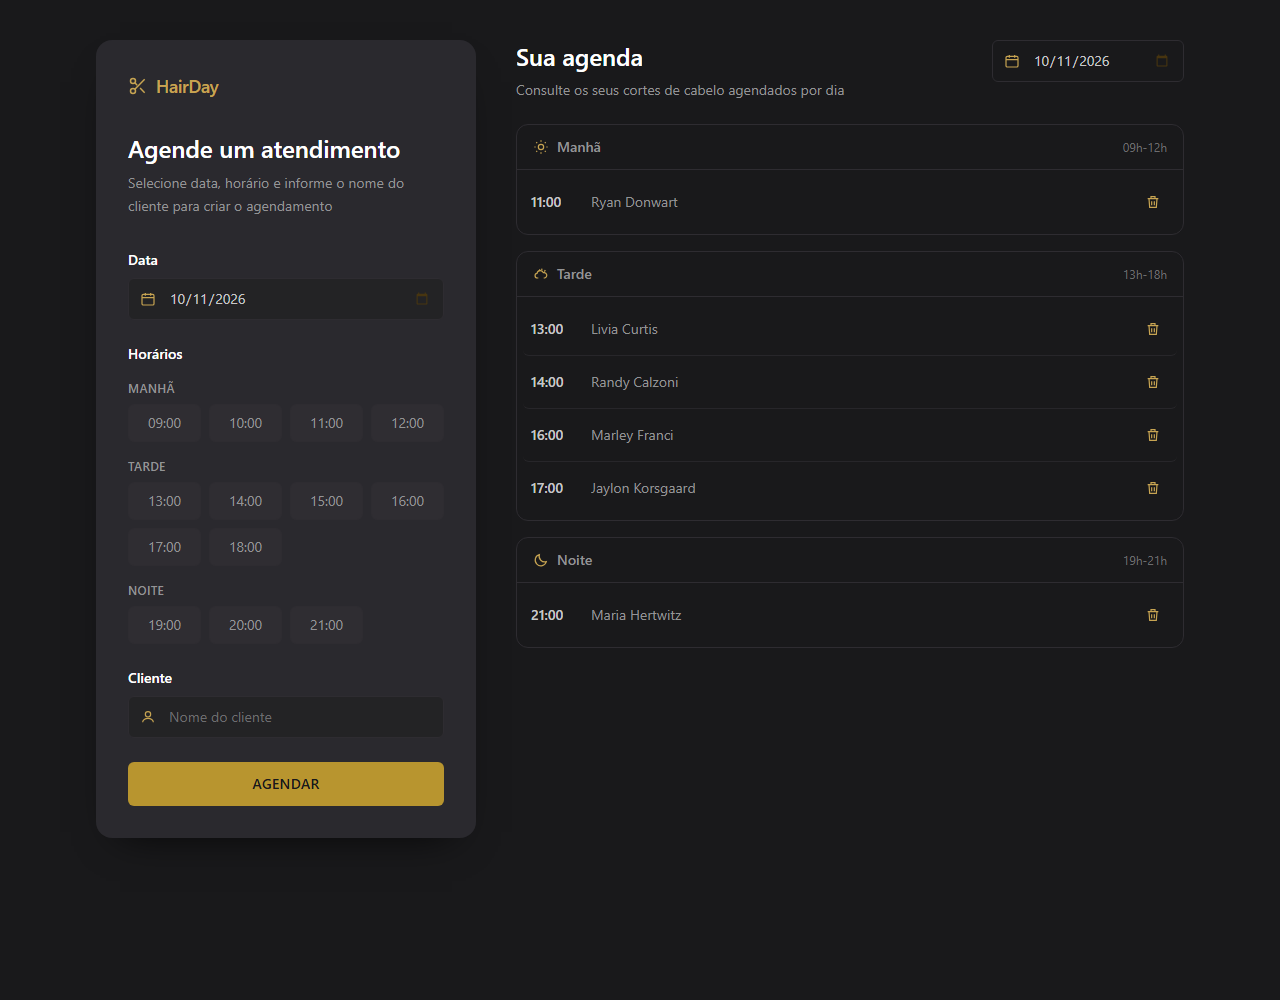
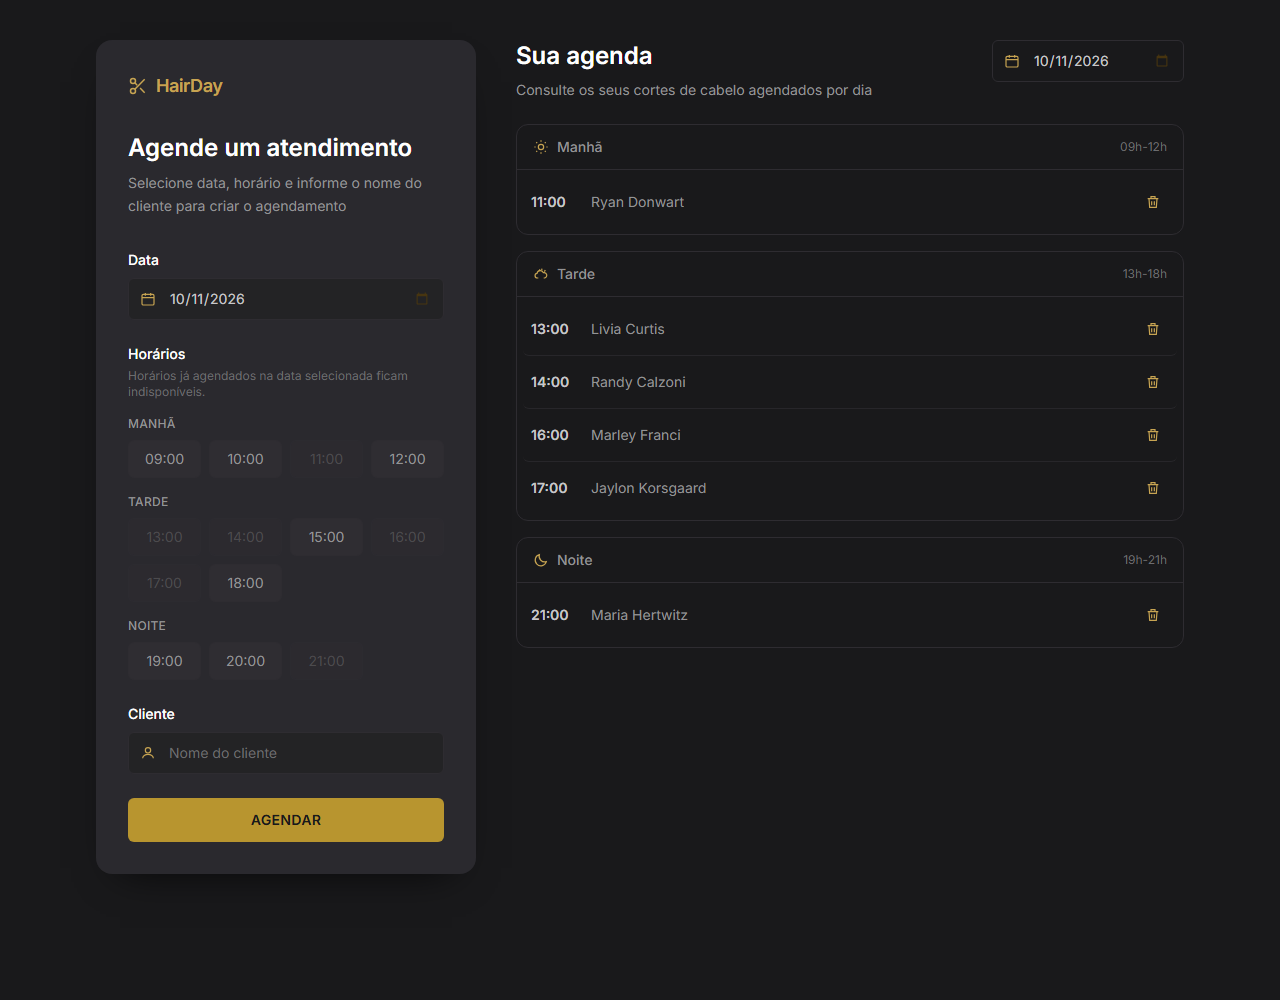
feat: disable booked time slots and add Inter font

diff --git a/src/components/AppointmentForm/AppointmentForm.tsx b/src/components/AppointmentForm/AppointmentForm.tsx
@@ -16,12 +16,31 @@ type AppointmentFormProps = {
  * A lista de agendamentos NÃO fica aqui: ela vive no Context API.
  */
 export function AppointmentForm({ onAppointmentCreated }: AppointmentFormProps) {
-  const { addAppointment } = useAppointments()
+  const { appointments, addAppointment } = useAppointments()
 
   const [date, setDate] = useState(todayISO())
   const [selectedTime, setSelectedTime] = useState('')
   const [clientName, setClientName] = useState('')
   const [error, setError] = useState('')
+
+  /**
+   * Descobre se um horário já está ocupado na data informada.
+   * É o que faz o chip aparecer apagado, como no protótipo do Figma.
+   */
+  function isTimeBooked(targetDate: string, time: string) {
+    return appointments.some(
+      (appointment) => appointment.date === targetDate && appointment.time === time,
+    )
+  }
+
+  function handleDateChange(nextDate: string) {
+    setDate(nextDate)
+
+    // Se o horário escolhido já estiver ocupado na nova data, limpamos a seleção.
+    if (selectedTime && isTimeBooked(nextDate, selectedTime)) {
+      setSelectedTime('')
+    }
+  }
 
   function handleSubmit(event: FormEvent<HTMLFormElement>) {
     // Impede o recarregamento da página ao enviar o formulário.
@@ -36,6 +55,12 @@ export function AppointmentForm({ onAppointmentCreated }: AppointmentFormProps) 
 
     if (missing.length > 0) {
       setError(`Preencha ${missing.join(', ')} para criar o agendamento.`)
+      return
+    }
+
+    // Trava extra: mesmo que o chip esteja marcado, o horário ocupado não entra.
+    if (isTimeBooked(date, selectedTime)) {
+      setError('Este horário já está agendado. Escolha outro horário.')
       return
     }
 
@@ -62,7 +87,7 @@ export function AppointmentForm({ onAppointmentCreated }: AppointmentFormProps) 
             id="appointment-date"
             type="date"
             value={date}
-            onChange={(event) => setDate(event.target.value)}
+            onChange={(event) => handleDateChange(event.target.value)}
             className="w-full rounded-md border border-line bg-surface-inset py-2.5 pl-10 pr-3 text-sm text-content transition-colors focus-visible:border-accent focus-visible:outline-2 focus-visible:outline-offset-2 focus-visible:outline-accent"
           />
         </div>
@@ -70,6 +95,9 @@ export function AppointmentForm({ onAppointmentCreated }: AppointmentFormProps) 
 
       <fieldset>
         <legend className="text-sm font-medium text-content-strong">Horários</legend>
+        <p className="mt-1 text-xs text-content-subtle">
+          Horários já agendados na data selecionada ficam indisponíveis.
+        </p>
 
         {PERIODS.map((period) => (
           <div key={period.id} className="mt-4">
@@ -78,6 +106,7 @@ export function AppointmentForm({ onAppointmentCreated }: AppointmentFormProps) 
             </p>
             <div className="mt-2 grid grid-cols-4 gap-2">
               {period.times.map((time) => {
+                const isBooked = isTimeBooked(date, time)
                 const isSelected = selectedTime === time
 
                 return (
@@ -85,11 +114,15 @@ export function AppointmentForm({ onAppointmentCreated }: AppointmentFormProps) 
                     key={time}
                     type="button"
                     onClick={() => setSelectedTime(time)}
+                    disabled={isBooked}
                     aria-pressed={isSelected}
+                    title={isBooked ? 'Horário já agendado' : undefined}
                     className={`rounded-md border px-2 py-2 text-sm transition-colors focus-visible:outline-2 focus-visible:outline-offset-2 focus-visible:outline-accent ${
-                      isSelected
-                        ? 'border-accent bg-surface-hover text-accent-soft'
-                        : 'border-line bg-surface-hover text-content-muted hover:border-content-subtle hover:text-content'
+                      isBooked
+                        ? 'cursor-not-allowed border-line/50 bg-surface-hover/40 text-content-subtle/50'
+                        : isSelected
+                          ? 'border-accent bg-surface-hover text-accent-soft'
+                          : 'border-line bg-surface-hover text-content-muted hover:border-content-subtle hover:text-content'
                     }`}
                   >
                     {time}

diff --git a/index.html b/index.html
@@ -5,6 +5,12 @@
     <link rel="icon" type="image/svg+xml" href="/favicon.svg" />
     <meta name="viewport" content="width=device-width, initial-scale=1.0" />
     <meta name="description" content="HairDay - plataforma de agendamento de cortes de cabelo" />
+    <link rel="preconnect" href="https://fonts.googleapis.com" />
+    <link rel="preconnect" href="https://fonts.gstatic.com" crossorigin />
+    <link
+      href="https://fonts.googleapis.com/css2?family=Inter:wght@400;500;600;700&display=swap"
+      rel="stylesheet"
+    />
     <title>HairDay - Sua agenda</title>
   </head>
   <body>

diff --git a/src/index.css b/src/index.css
@@ -25,7 +25,7 @@
   --color-content-muted: #939395;
   --color-content-subtle: #6c6c6e;
 
-  --font-sans: system-ui, -apple-system, 'Segoe UI', Roboto, 'Helvetica Neue', sans-serif;
+  --font-sans: 'Inter', system-ui, -apple-system, 'Segoe UI', Roboto, 'Helvetica Neue', sans-serif;
 }
 
 @layer base {

diff --git a/README.md b/README.md
@@ -8,6 +8,7 @@ Aplicação web de agendamento de cortes de cabelo, construída com **React**, *
 
 - **Formulário de agendamento**: data, horário (13 horários fixos do protótipo) e nome do cliente.
 - **Validação**: o cadastro só acontece com data, horário e nome preenchidos; o nome é limpo com `trim()`.
+- **Horários ocupados**: os horários já agendados na data selecionada ficam esmaçados e não clicáveis (como no Figma).
 - **Agenda por dia**: os agendamentos são filtrados pela data selecionada no cabeçalho.
 - **Três períodos**: Manhã (09h-12h), Tarde (13h-18h) e Noite (19h-21h), com ordenação crescente por horário.
 - **Exclusão individual**: botão de lixeira com nome acessível (`aria-label="Excluir agendamento de [nome]"`).
@@ -122,8 +123,8 @@ As cores foram extraídas do frame "Projeto" do Figma e transformadas em variáv
 | Linha da agenda: horário, cliente, lixeira | idêntico | idêntico | ✅ |
 | Formulário à esquerda, agenda à direita | sim | sim | ✅ |
 | Empilhamento em telas pequenas | — | uma coluna | ✅ (adaptação) |
-| Chips de horário já ocupados (esmaecidos) | sim | **não implementado** | ❌ desafio opcional |
-| Tipografia geométrica do protótipo | fonte do Figma | `system-ui` | ⚠ aproximação |
+| Chips de horário já ocupados (esmaecidos) | sim | sim (`disabled` + `title`) | ✅ |
+| Tipografia geométrica do protótipo | fonte do Figma | `Inter` (Google Fonts) | ✅ aproximação |
 | Seta (chevron) no seletor de data | chevron | ícone nativo do navegador | ⚠ aproximação acessível |
 
 ## 🧪 Testes executados
@@ -140,7 +141,8 @@ Testes manuais automatizados no navegador (dev server em `http://localhost:5174`
 | 6 | Agendamento no período correto e em ordem crescente | ✅ 09:00 → 11:00 na Manhã |
 | 7 | Período vazio mostra a mensagem exigida | ✅ texto exato |
 | 8 | Excluir remove somente o item selecionado | ✅ os demais permanecem |
-| 9 | Layout desktop e mobile | ✅ `grid-template-columns: 340px 1fr` no desktop; coluna única no mobile |
+| 9 | Layout desktop e mobile | ✅ `grid-template-columns: 380px 1fr` no desktop; coluna única no mobile |
+| 11 | Horário já agendado fica indisponível | ✅ chip com `disabled`, `title="Horário já agendado"` e 50% de opacidade; não selecionável |
 | 10 | Build e lint | ✅ `npm run build` e `npm run lint` sem erros |
 
 **Limitações dos testes:**
@@ -158,5 +160,7 @@ Testes manuais automatizados no navegador (dev server em `http://localhost:5174`
 
 ## 📌 Observações do ambiente
 
+- A **Inter** é carregada do Google Fonts (`index.html`), então a fonte geométrica do protótipo só aparece com internet. Sem conexão, a aplicação cai automaticamente para `system-ui`.
 - O **Smart App Control** do Windows bloqueia o binário nativo `lightningcss@1.33.0`. Por isso o projeto usa `tailwindcss@4.3.3` com o *override* `lightningcss@1.32.0` (versão liberada). Para voltar à 4.3.5, é preciso que o binário 1.33.0 seja liberado pelo sistema.
 - Alterações no `vite.config.ts` exigem **reiniciar** o servidor de desenvolvimento para que o plugin do Tailwind seja aplicado.
+- As capturas de `docs/screenshots/` foram geradas com Chrome headless via DevTools Protocol, criando agendamentos reais na aplicação (6 horários do protótipo).
